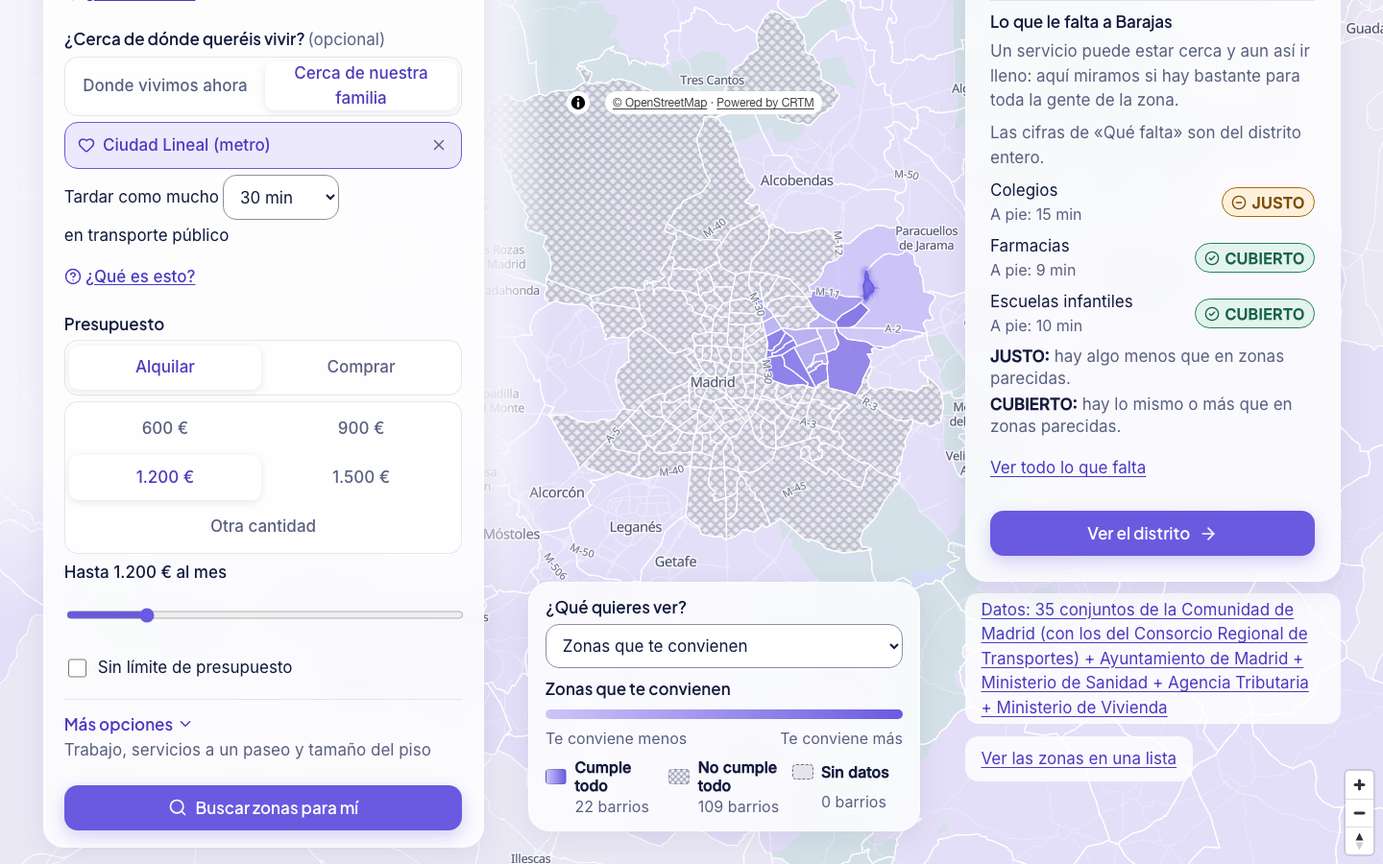
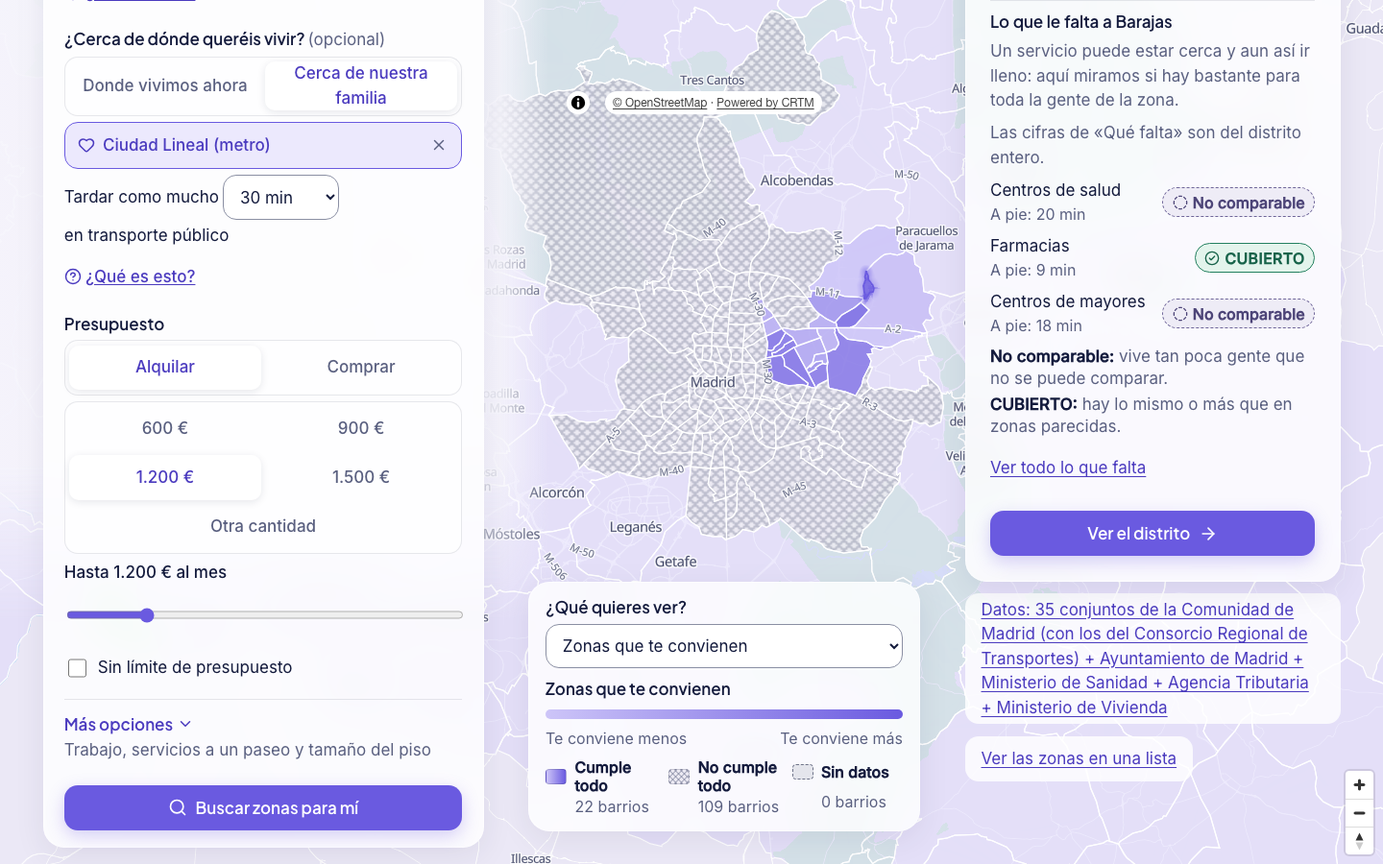
Card of «Qué falta»: what matters to the household first, for every home (#79)
topRows orders by relevance to the household first and by status after: the rows of
highlight_rows of hi_domain/search.py, without housing (escuela infantil with a child of 0-2,
colegio with children, health centre and pharmacy always, centres for older people with seniors
or seniors_in_care). Among them, what is short first and then the household's order; a «No
comparable» one goes before any other row and shows as it is. Other rows only fill in when fewer
than three of the household's have data, and rows about children never do in a home without
children. Barajas for the retired couple: health centre, pharmacy and centres for older people,
no longer «Colegios · JUSTO». Tests for Barajas, a family with a baby and a couple without
children; D-244, textos_web.md and the 04b screenshots at 390, 360 and 1440 px updated.

Changed region(s): [[0.7188, 0.3422, 0.9688, 0.4667], [0.8438, 0.2178, 0.9688, 0.2489], [0.7188, 0.2178, 0.8125, 0.2489]]

diff --git a/apps/web/src/lib/__tests__/gaps.test.ts b/apps/web/src/lib/__tests__/gaps.test.ts
@@ -160,26 +160,61 @@ describe("sortRows and topRows", () => {
     expect(topRows([...rows]).map((r) => r.row)).toEqual(["colegio", "vivienda", "centro_salud"]);
   });
 
-  // D-244, review R-01 of PR #79: a retired couple saw «Escuelas infantiles · FALTA» first
-  it("puts the rows of a household with older people first at the same status, never above what is missing", () => {
-    const allJusto = [
+  // Review of PR #79: «lo que le falta que le afecte», the household's rows first for every home
+  it("knows which rows matter to each home, as highlight_rows of hi_domain/search.py", () => {
+    expect(householdRows({ minors: 1, minor_ages: [1] })).toEqual(["escuela_infantil", "colegio", "centro_salud", "farmacia"]);
+    expect(householdRows({ minors: 2, minor_ages: [4, 8] })).toEqual(["colegio", "centro_salud", "farmacia"]);
+    expect(householdRows({ minors: 1, minor_ages: [] })).toEqual(["escuela_infantil", "colegio", "centro_salud", "farmacia"]);
+    expect(householdRows({ seniors: true })).toEqual(["centro_salud", "farmacia", "mayores"]);
+    expect(householdRows({ seniors_in_care: 1 })).toEqual(["centro_salud", "farmacia", "mayores"]);
+    expect(householdRows({})).toEqual(["centro_salud", "farmacia"]);
+  });
+
+  // Barajas for the retired couple of the example (GET /gaps/distrito/2807921, 15 nov): the health
+  // centre and the centres for older people are too small to compare, the colegio is JUSTO
+  const barajas = [
+    { row: "escuela_infantil", status: "CUBIERTO" },
+    { row: "colegio", status: "JUSTO" },
+    { row: "centro_salud", status: "CUBIERTO", reliable: false },
+    { row: "mayores", status: "CUBIERTO", reliable: false },
+    { row: "farmacia", status: "CUBIERTO" },
+    { row: "vivienda", status: "SIN_DATOS" },
+  ] as const;
+
+  it("shows a retired couple the health centre first, then the pharmacy and the centres for older people, never schools", () => {
+    expect(topRows([...barajas], 3, { seniors: true }).map((r) => r.row)).toEqual(["centro_salud", "farmacia", "mayores"]);
+    // Without a household, by status, as before: the colegio JUSTO first
+    expect(topRows([...barajas]).map((r) => r.row)[0]).toBe("colegio");
+  });
+
+  it("keeps the escuela infantil up for a family with a baby, and what is short of theirs first", () => {
+    const baby = { minors: 1, minor_ages: [1] };
+    const rows = [
+      { row: "mayores", status: "FALTA" },
       { row: "escuela_infantil", status: "JUSTO" },
-      { row: "colegio", status: "JUSTO" },
-      { row: "mayores", status: "JUSTO" },
+      { row: "colegio", status: "CUBIERTO" },
+      { row: "centro_salud", status: "CUBIERTO" },
       { row: "farmacia", status: "CUBIERTO" },
-      { row: "centro_salud", status: "JUSTO" },
     ] as const;
-    const older = householdRows({ seniors: true });
-    expect(older).toEqual(["centro_salud", "farmacia", "mayores"]);
-    expect(householdRows({ seniors_in_care: 1 })).toEqual(older);
-    expect(householdRows({ seniors: false, seniors_in_care: 0 })).toEqual([]);
-    expect(householdRows(undefined)).toEqual([]);
-    expect(topRows([...allJusto], 3, older).map((r) => r.row)).toEqual(["centro_salud", "mayores", "escuela_infantil"]);
-    // Without older people, the API order within a status, as before
-    expect(topRows([...allJusto], 3, householdRows({})).map((r) => r.row)).toEqual(["escuela_infantil", "colegio", "mayores"]);
-    // What is missing still comes first: a FALTA of another row goes above a JUSTO of the household
-    const falta = [{ row: "escuela_infantil", status: "FALTA" }, { row: "farmacia", status: "JUSTO" }, { row: "colegio", status: "JUSTO" }] as const;
-    expect(topRows([...falta], 3, older).map((r) => r.row)).toEqual(["escuela_infantil", "farmacia", "colegio"]);
+    expect(topRows([...rows], 3, baby).map((r) => r.row)).toEqual(["escuela_infantil", "colegio", "centro_salud"]);
+    const healthShort = [...rows.slice(0, 3), { row: "centro_salud", status: "FALTA" }, rows[4]] as const;
+    expect(topRows([...healthShort], 3, baby).map((r) => r.row)).toEqual(["centro_salud", "escuela_infantil", "colegio"]);
+  });
+
+  it("never shows a couple without children the escuela infantil, even when it is the zone's FALTA", () => {
+    const rows = [
+      { row: "escuela_infantil", status: "FALTA" },
+      { row: "colegio", status: "FALTA" },
+      { row: "centro_salud", status: "CUBIERTO" },
+      { row: "mayores", status: "CUBIERTO" },
+      { row: "farmacia", status: "JUSTO" },
+      { row: "vivienda", status: "SIN_DATOS" },
+    ] as const;
+    const top = topRows([...rows], 3, { minors: 0 });
+    expect(top.map((r) => r.row)).toEqual(["farmacia", "centro_salud", "mayores"]);
+    // Rows of the household without data go after the others with data
+    const noHealthData = rows.map((r) => (r.row === "centro_salud" ? { ...r, status: "SIN_DATOS" as const } : r));
+    expect(topRows(noHealthData, 3, {}).map((r) => r.row)).toEqual(["farmacia", "mayores", "centro_salud"]);
   });
 });
 

diff --git a/apps/web/src/lib/gaps.ts b/apps/web/src/lib/gaps.ts
@@ -184,25 +184,63 @@ export function sortRows<T extends Classified>(rows: readonly T[]): T[] {
   return [...rows].sort((a, b) => statusRank(a) - statusRank(b));
 }
 
-/**
- * The rows that matter most to a household with older people, themselves («Somos mayores») or
- * looked after (D-244, review R-01 of PR #79): the health centre, the pharmacy and the centres for
- * older people. Empty for any other household.
- */
-export const OLDER_ROWS: readonly GapRowKey[] = ["centro_salud", "farmacia", "mayores"];
+/** Who lives in the home, as far as «Qué falta» cares (ScenarioState.household). */
+export interface HouseholdLike {
+  minors?: number;
+  minor_ages?: readonly number[];
+  seniors_in_care?: number;
+  seniors?: boolean;
+}
 
-export function householdRows(household: { seniors?: boolean; seniors_in_care?: number } | null | undefined): readonly GapRowKey[] {
-  return household?.seniors === true || (household?.seniors_in_care ?? 0) > 0 ? OLDER_ROWS : [];
+/** Up to this age a child goes to an escuela infantil (INFANT_MAX_AGE of hi_domain/search.py). */
+const INFANT_MAX_AGE = 2;
+/** The rows about children: they never stand in for another row in a home without children. */
+const CHILD_ROWS: readonly GapRowKey[] = ["escuela_infantil", "colegio"];
+
+/**
+ * The rows of «Qué falta» that matter to this household, in the card's order (D-244 and review of
+ * PR #79: «lo que le falta que le afecte»): the same rule as highlight_rows of hi_domain/search.py,
+ * which feeds `gap_highlights`, without the housing row. Escuela infantil with a child of 0 to 2
+ * (or ages not given), colegio with any child, the health centre and the pharmacy always, and the
+ * centres for older people with «Somos mayores» or someone older looked after.
+ */
+export function householdRows(household: HouseholdLike | null | undefined): GapRowKey[] {
+  const minors = household?.minors ?? 0;
+  const ages = household?.minor_ages ?? [];
+  const rows: GapRowKey[] = [];
+  if (minors > 0 && (ages.length === 0 || Math.min(...ages) <= INFANT_MAX_AGE)) rows.push("escuela_infantil");
+  if (minors > 0) rows.push("colegio");
+  rows.push("centro_salud", "farmacia");
+  if (household?.seniors === true || (household?.seniors_in_care ?? 0) > 0) rows.push("mayores");
+  return rows;
 }
 
 /**
- * The zone card shows three rows: what is missing first and, at the same status, the household's
- * own rows (`first`, in its order) before the others, which keep the API order.
+ * The three rows of the zone card. Without a household, by status (what is missing first, then
+ * the API order). With one, what matters to it first (householdRows), whatever its status, a «No
+ * comparable» one included: among them, what is short (FALTA, then JUSTO) and then the household's
+ * order. Other rows only fill in when fewer than three of the household's have data, by status;
+ * those about children never do in a home without children. The household's rows without data go last.
  */
-export function topRows<T extends Classified & { row?: GapRowKey }>(rows: readonly T[], limit = 3, first: readonly GapRowKey[] = []): T[] {
-  const mine = (r: T) => (r.row !== undefined && first.includes(r.row) ? first.indexOf(r.row) : first.length);
-  // A stable sort: rows with the same status and no place in `first` keep the API order
-  return [...rows].sort((a, b) => statusRank(a) - statusRank(b) || mine(a) - mine(b)).slice(0, limit);
+export function topRows<T extends Classified & { row?: GapRowKey }>(rows: readonly T[], limit = 3, household?: HouseholdLike | null): T[] {
+  if (!household) return sortRows(rows).slice(0, limit);
+  const mine = householdRows(household);
+  const children = (household.minors ?? 0) > 0;
+  const ownRank = (r: T) => (r.row === undefined ? -1 : mine.indexOf(r.row));
+  const fills = (r: T) => children || r.row === undefined || !CHILD_ROWS.includes(r.row);
+  const known = (r: T) => r.status !== "SIN_DATOS";
+  // 0: the household's with data · 1: others with data · 2: the household's without · 3: others without
+  const group = (r: T) => (ownRank(r) >= 0 ? (known(r) ? 0 : 2) : known(r) ? 1 : 3);
+  const short = (r: T) => (notComparable(r) ? 2 : r.status === "FALTA" ? 0 : r.status === "JUSTO" ? 1 : 2);
+  const order = (a: T, b: T) => {
+    const g = group(a) - group(b);
+    if (g !== 0) return g;
+    if (group(a) === 0) return short(a) - short(b) || ownRank(a) - ownRank(b);
+    if (group(a) === 2) return ownRank(a) - ownRank(b);
+    return statusRank(a) - statusRank(b);
+  };
+  // A stable sort: other rows of the same status keep the API order
+  return rows.filter((r) => ownRank(r) >= 0 || fills(r)).sort(order).slice(0, limit);
 }
 
 type SummaryRow = Classified & { row: GapRowKey };

diff --git a/apps/web/src/components/zone/ZoneCard.tsx b/apps/web/src/components/zone/ZoneCard.tsx
@@ -20,7 +20,6 @@ import {
   GAPS_HELP,
   gapsHref,
   GROUP,
-  householdRows,
   inGroup,
   nearButShort,
   notComparable,
@@ -103,8 +102,8 @@ export default function ZoneCard({ zone, mode, onClose }: Props) {
   // D-234: the approximate price, in the head; none without a price (the search's notice says why)
   const price = result ? zonePriceOf(result, zone_key) : null;
   const rows = gaps.data?.data.rows ?? [];
-  // The three rows in view: what is missing first and, at the same status, those of the household (D-244, R-01)
-  const shown = topRows(rows, 3, householdRows(scenario.household));
+  // The three rows in view: what matters to the household first, then what is missing (D-244, review of PR #79)
+  const shown = topRows(rows, 3, scenario.household);
   // A zone that fits everything asked, with FALTA or JUSTO rows: one line says both are true, with
   // every such row of the API, also those beyond the three the card shows. Not for a barrio: its
   // rows are the whole district's, and the line says «aquí»

diff --git a/pitch/textos_web.md b/pitch/textos_web.md
@@ -7,7 +7,7 @@ Para la línea B: estos son los textos de la web, listos para usar tal cual. Si 
 - **Lenguaje llano (§4 de la auditoría):** «encaja» sale de la vista principal y queda en «Cómo lo calculamos», que es la página del método. Cambian el botón (`busqueda.boton`), la lista (`resultados.titulo`, `rc.*`, `resultados.de*`, `resultados.casi.*`, `zona.cerca_de_encajar.titulo`), las bandas (`resultados.banda.*`), la tarjeta (`zona.*`, `encaje.aviso_*`), la leyenda (`leyenda.*`) y «¿Quieres ver más zonas?» (sección 7). «≈» pasa a «unos» en la tarjeta y en «Casi valen»; en las filas de la lista sigue «≈» hasta la entrega 2, que rehace la fila. Sin siglas sin explicar: fuera «EMT», «SERMAS», «CRTM» e «INE» de las ayudas y de la tarjeta (las atribuciones de licencia no cambian). Los valores de la API (`muy_bien`, `bien`, `regular`, `poco`) no cambian.
 - **Las explicaciones que estaban en `title`** (en el móvil no se ven) pasan a texto visible o a un botón «¿Qué es esto?» (`ayuda.que_es`): ayudas del formulario, qué cuenta cada botón de «¿Qué quieres tener cerca?», qué es el % (`zona.encaje.que_es`), qué quieren decir FALTA, JUSTO y CUBIERTO (`zona.falta.estados`, a la vista bajo las filas de la tarjeta) y la fiabilidad de los hechos (`confianza.que_es`).
 - **Formulario más corto a la vista:** «Lo quiero a un paseo», «Cerca de mi familia o amigos» y el tamaño del piso van plegados en «Más opciones» (`mas.*`), que dice cuántas cosas tiene elegidas. «Trabajo en (opcional)». Importes rápidos para el presupuesto y «Otra cantidad» (`presupuesto.importes`, `presupuesto.otra`); el deslizador se queda.
-- **«Somos mayores» (D-244, diseño de Mariano tras la revisión del PR #79):** `hogar.somos_mayores`; en lugar de «Trabajo en», «¿Cerca de dónde queréis vivir?» (`lugar.*`: donde viven ahora o cerca de su familia, 30 min como mucho); «¿Dónde?» empieza en «Madrid capital» si no hay sitio; se marcan «Centro de salud», «Metro o tren sin escaleras» y «Transporte»; la tarjeta pone primero, a igual estado, centros de salud, farmacias y centros de mayores; y el segundo ejemplo de la portada (`portada.ejemplo.mayores`).
+- **«Somos mayores» (D-244, diseño de Mariano tras la revisión del PR #79):** `hogar.somos_mayores`; en lugar de «Trabajo en», «¿Cerca de dónde queréis vivir?» (`lugar.*`: donde viven ahora o cerca de su familia, 30 min como mucho); «¿Dónde?» empieza en «Madrid capital» si no hay sitio; se marcan «Centro de salud», «Metro o tren sin escaleras» y «Transporte»; la tarjeta enseña primero las filas que importan al hogar (para mayores, centro de salud, farmacia y centros de mayores; para todos los hogares, nunca escuelas infantiles sin hijos); y el segundo ejemplo de la portada (`portada.ejemplo.mayores`).
 - **Revisión del PR #79:** el hecho del coste de la tarjeta dice «unos 1.101 € al mes» (`hecho.coste.en_la_tarjeta`); «Dato aproximado» se explica en la ayuda de la tarjeta y en «Qué falta», no en un `title`; espacio que no se parte antes de cada «%» también en «Empatan al 94 %», la tabla de bandas, las cifras con «%», los vecinos y «Dónde invertir primero»; los hechos de la API «… el encaje se queda en la mitad» pasan a «… el % se queda en la mitad»; «SERMAS» se explica en «Qué falta»; las filas de «Los barrios que más te convienen» siguen a las de la lista.
 - **Portada en el móvil:** la hoja abre desplegada, con la frase de `portada.subtitulo`, los dos ejemplos y el formulario a la vista; el mapa queda tras «Ver el mapa». En el escritorio no cambia nada de sitio (mapa primero).
 - **«Cómo lo calculamos»:** el desempate dice ahora que va primero la zona que tiene **más cerca** los servicios del día a día (cuenta cada minuto andando, no cuántos servicios hay, `fit-0.9`), las bandas con sus palabras nuevas, «Casi valen», y un espacio que no se parte entre cada cifra y su «%».
@@ -535,7 +535,7 @@ Columna derecha tras buscar, mientras no hay una zona elegida. En el móvil va e
 | `zona.no_cumple` | No cumple todo lo que pides. | Si la API no nombra la condición que falla |
 | `zona.no_sabemos` | No lo sabemos: nos falta el dato para comprobar lo que pides. No lo damos por bueno. | Zona con alguna condición `UNKNOWN` |
 | `zona.encaje.antiguo` | Esto es de tu búsqueda anterior. | Tarjeta abierta tras cambiar la búsqueda (`resultados.cambiada`). **Cambia (15 nov, UX móvil 1).** Antes «Este encaje es de tu búsqueda anterior.» |
-| `zona.falta.titulo` | Lo que le falta a esta zona | Mini lista de 3 filas: lo que falta primero y, a igual estado, con «Somos mayores» o con una persona mayor a la que se cuida, centros de salud, farmacias y centros de mayores, en ese orden (`householdRows` en `lib/gaps.ts`, D-244). **Cambia (15 nov, revisión del PR #79).** **Cambia (15 nov, UX móvil 1).** Antes «Qué falta aquí» (auditoría §4 n.º 9). La pestaña sigue llamándose «Qué falta» |
+| `zona.falta.titulo` | Lo que le falta a esta zona | Mini lista de 3 filas: primero las que importan al hogar (las de `highlight_rows` sin la de vivienda: escuela infantil con un hijo de 0 a 2 años, colegio con hijos, centro de salud y farmacia siempre, y centros de mayores con «Somos mayores» o con una persona mayor a la que se cuida), con lo que falta delante; las demás solo rellenan si quedan menos de 3 del hogar con dato, y las de niños nunca en un hogar sin hijos (`householdRows` y `topRows` en `lib/gaps.ts`, D-244). **Cambia (15 nov, revisión del PR #79).** **Cambia (15 nov, UX móvil 1).** Antes «Qué falta aquí» (auditoría §4 n.º 9). La pestaña sigue llamándose «Qué falta» |
 | `zona.falta.estados` | FALTA: hay claramente menos que en zonas parecidas. · JUSTO: hay algo menos que en zonas parecidas. · CUBIERTO: hay lo mismo o más que en zonas parecidas. · SIN DATOS: no tenemos el dato; no quiere decir que no haya. · No comparable: vive tan poca gente que no se puede comparar. · Junto con sus vecinos: es un pueblo pequeño: lo comparamos junto con los de al lado. | **Nueva (15 nov, UX móvil 1).** Bajo las filas de la tarjeta, una línea por cada etiqueta que sale en ellas (`GAP_STATUS[*].short`, `SMALL_ZONE.short`, `GROUP.short` en `lib/gaps.ts`). Antes, el significado solo estaba en un `title` (auditoría §3 A5) |
 | `zona.falta.ayuda` | Un servicio puede estar cerca y aun así ir lleno: aquí miramos si hay bastante para toda la gente de la zona. | Bajo `zona.falta.titulo`, siempre. «¿Qué quieres tener cerca?» y «Lo quiero a un paseo» miden minutos andando; «Qué falta», si alcanza para todos frente a zonas parecidas (2SFCA, D-217). **Cambia (15 nov, UX móvil 1).** Antes «Compara si hay bastante para toda la gente de la zona con lo que hay en zonas parecidas: algo puede estar cerca y aun así faltar.» (auditoría §4 n.º 31) |
 | `zona.cerca_pocas` | {Servicio} a unos {n} min andando, pero {hay pocas para tantos …}: por eso sale {FALTA \| JUSTO}. | **Nueva, 15 nov.** En «Qué falta aquí», encima de las filas, cuando la búsqueda encontró cerca un servicio (una condición de «Lo quiero a un paseo» que cumple o un hecho a pie de «Lo que tienes aquí»), a 15 min andando como mucho, que es lo que mide la fila (`fila.mide.*`), y su fila sale FALTA o JUSTO. Esa fila ya no se repite en `encaje.aviso_*` (revisión del PR #70): si era la única, la línea de aviso no sale. Ejemplo real, Puente de Vallecas con escuela infantil a 10 min como mucho: «Escuela infantil a unos 6 min andando, pero hay pocas para tantos niños: por eso sale FALTA.». **Cambia (15 nov, UX móvil 1).** Sin las edades (antes «… para tantos niños de 0 a 4 años …», auditoría §4 n.º 32). Las palabras de cada fila siguen a `fila.mide.*`: escuelas infantiles «hay pocas / van justas para tantos niños» (nadie publica sus plazas), colegios «hay pocas aulas / las aulas van justas para tantos niños», centros de salud «hay pocos / van justos para tanta gente», mayores «hay pocas plazas / las plazas van justas para tantas personas mayores», farmacias «hay pocas / van justas para tanta gente». En la tarjeta de un barrio, «pero en {distrito} …». No sale en filas «No comparable» ni «Junto con sus vecinos»: ese estado no es el de la zona sola. Solo texto: la fórmula no cambia (se revisa el 17-18 nov) |

diff --git a/docs/00_index/01_decisions_log.md b/docs/00_index/01_decisions_log.md
@@ -1985,7 +1985,7 @@ Prueba en persona del 15 nov con una persona mayor, en el móvil: «difícil de 
    - **Ámbito por defecto.** Si no hay ningún sitio y «¿Dónde?» está en «Toda la Comunidad», pasa a «Madrid capital» (`scope: madrid`). Se puede cambiar, y nunca pisa una elección. Sin sitio, en toda la Comunidad salían arriba pueblos pequeños bien dotados (D-243 §13: con el ejemplo anterior, 155 zonas y Anchuelo y Morata de Tajuña al 98 %).
    - **Preelegidos,** detrás de lo que ya hubiera y en este orden: «Centro de salud» (`salud`), «Metro o tren sin escaleras» (`sin_escaleras`) y «Transporte» (`transporte`). Todos se pueden quitar.
    - **Sin aviso de trabajo:** la lista no enseña «¿Trabajas fuera de casa? Dinos dónde…» (`resultados.sin_lugar`), y el aviso de empate dice «… o elige cerca de dónde queréis vivir…» en lugar de «… o dónde trabajas…».
-   - **Tarjeta (R-01).** Con `seniors` o con `seniors_in_care`, «Lo que le falta a esta zona» enseña primero lo que falta, como siempre, y, a igual estado, centros de salud, farmacias y centros de mayores, en ese orden, antes que escuelas infantiles o colegios (`householdRows` y `topRows` en `lib/gaps.ts`, con el hogar del formulario). Antes, una pareja jubilada podía ver primero «Escuelas infantiles · JUSTO». En el dominio, `highlight_rows` (el `gap_highlights` de cada zona de `/search`) también pone delante los centros de mayores con `seniors`; la tarjeta no lo usa: ordena las filas de `/gaps`.
+   - **Tarjeta (R-01, y la regla de «lo que le falta que le afecte» de la entrega 2, adelantada por Mariano).** «Lo que le falta a esta zona» enseña primero las filas que importan al hogar, sea cual sea su estado, y después el estado (`householdRows` y `topRows` en `lib/gaps.ts`, con el hogar del formulario). Las filas del hogar son las de `highlight_rows` (el `gap_highlights` de `/search`), sin la de vivienda: escuela infantil con un hijo de 0 a 2 años (o sin edades), colegio con hijos, centro de salud y farmacia siempre, y centros de mayores con `seniors` o `seniors_in_care`. Entre ellas va primero lo que falta (FALTA, luego JUSTO) y después el orden del hogar; una «No comparable» del hogar va antes que cualquier otra fila y se enseña tal cual. Las demás filas solo rellenan si quedan menos de 3 del hogar con dato, por estado, y las de niños nunca rellenan en un hogar sin hijos. Vale para todos los hogares. Así, en Barajas, la 1.ª del ejemplo, una pareja jubilada ve centro de salud (No comparable), farmacias (CUBIERTO) y centros de mayores (No comparable), y no «Colegios · JUSTO» ni escuelas infantiles; una familia con un bebé sigue viendo arriba la escuela infantil; y una pareja sin hijos no la ve aunque sea la FALTA de la zona. La lista completa sigue en «Ver todo lo que falta». En el dominio, `highlight_rows` pone los centros de mayores delante con `seniors`; la tarjeta usa la misma regla, pero ordena las filas de `/gaps` de cualquier zona, también las que no están en la lista.
    - **Ejemplo de la portada:** «Ejemplo: pareja jubilada que quiere vivir cerca de su familia»: 2 personas, «Somos mayores», alquiler hasta 1.200 € al mes, «Cerca de nuestra familia» en Ciudad Lineal (la estación de metro de `/api/v1/places`, un sitio público; nunca una dirección particular), 30 min como mucho, 3 días, «Madrid capital» y los tres preelegidos. Con la API `fit-0.9` sobre `housing` (15 nov, solo lectura) salen **22 de los 131 barrios**, de Alameda de Osuna y Casco Histórico de Barajas (92 %) a Ventas, Pueblo Nuevo, Quintana y San Pascual (89 %), Arcos y Rosas (87 %)…; lo que más limita es el trayecto, y «Sin límite de tiempo hasta Ciudad Lineal (metro)» añade 62.
 3. **Qué no hace.**
    - No cambia el % ni el orden por sí solo: ningún criterio ni condición lee el campo. Un test lo comprueba: la misma búsqueda con y sin `seniors` da las mismas zonas, los mismos % y los mismos recuentos de «¿Quieres ver más zonas?». Lo que cambia los resultados es lo que el flujo marca (el sitio, el ámbito y las prioridades), y todo se ve y se puede cambiar en el formulario.

diff --git a/evidence/gate-06/2026-11-15-ux-1/ux-movil-1.md b/evidence/gate-06/2026-11-15-ux-1/ux-movil-1.md
@@ -62,7 +62,7 @@ Antes, a 390 y 1440 px: `antes/01-portada-*.png`, `antes/02-formulario-*.png`, `
 
 - **Portada del móvil:** la hoja abre desplegada; «Tu búsqueda» y «¿Dónde?» se ven sin deslizar nada a 390 y a 360 px. A 360 px las pestañas «Qué falta» y «Cómo lo calculamos» se parten en dos líneas dentro de su botón: no se salen de la pantalla.
 - **Fila de la lista:** con letra de 16 px o más, la banda, el % y el precio van en la línea de debajo del nombre (antes, «Distrito / de / Madrid» palabra a palabra). La entrega 2 rehace la fila (nombre, banda y precio).
-- **Ejemplo «Pareja jubilada», resuelto (R-02):** con la primera versión (900 €, sin sitio, toda la Comunidad) salían 155 zonas con pueblos pequeños al 98 % arriba (Anchuelo, Morata de Tajuña). Con el diseño de Mariano (cerca de la familia, 30 min, «Madrid capital») salen 22 barrios cercanos. Tarjeta de su 1.º barrio (Barajas): primero «Colegios · JUSTO» (lo que falta va antes) y, entre los CUBIERTO, «Farmacias» antes que «Escuelas infantiles» (R-01).
+- **Ejemplo «Pareja jubilada», resuelto (R-02):** con la primera versión (900 €, sin sitio, toda la Comunidad) salían 155 zonas con pueblos pequeños al 98 % arriba (Anchuelo, Morata de Tajuña). Con el diseño de Mariano (cerca de la familia, 30 min, «Madrid capital») salen 22 barrios cercanos. Tarjeta de su 1.º barrio (Barajas, captura `04b`): centros de salud (No comparable), farmacias (CUBIERTO) y centros de mayores (No comparable), sin «Colegios · JUSTO» ni escuelas infantiles: la tarjeta pone primero lo que importa al hogar, en todos los hogares (R-01 y la regla de «lo que le falta que le afecte», adelantada de la entrega 2).
 - **Filas con «Dato aproximado»:** la cifra baja bajo la banda y se queda a la derecha. La entrega 2 rehace la fila.
 - **Deuda anotada (revisión del PR #79):** el encuadre del mapa en el móvil (`lib/map/camera.ts`, la cabecera de 130 px y la leyenda de 100 px fijas, medidas con la raíz de 17 px) y la etiqueta en mayúsculas de `ZoneGapsView`.
 - **Scripts de QA antiguos** (`apps/web/scripts/check-qa.mjs`, `check-search.mjs`, `count-requests.mjs`): buscan los textos de antes y la hoja plegada; no se han adaptado ni ejecutado. No los usa la CI.
